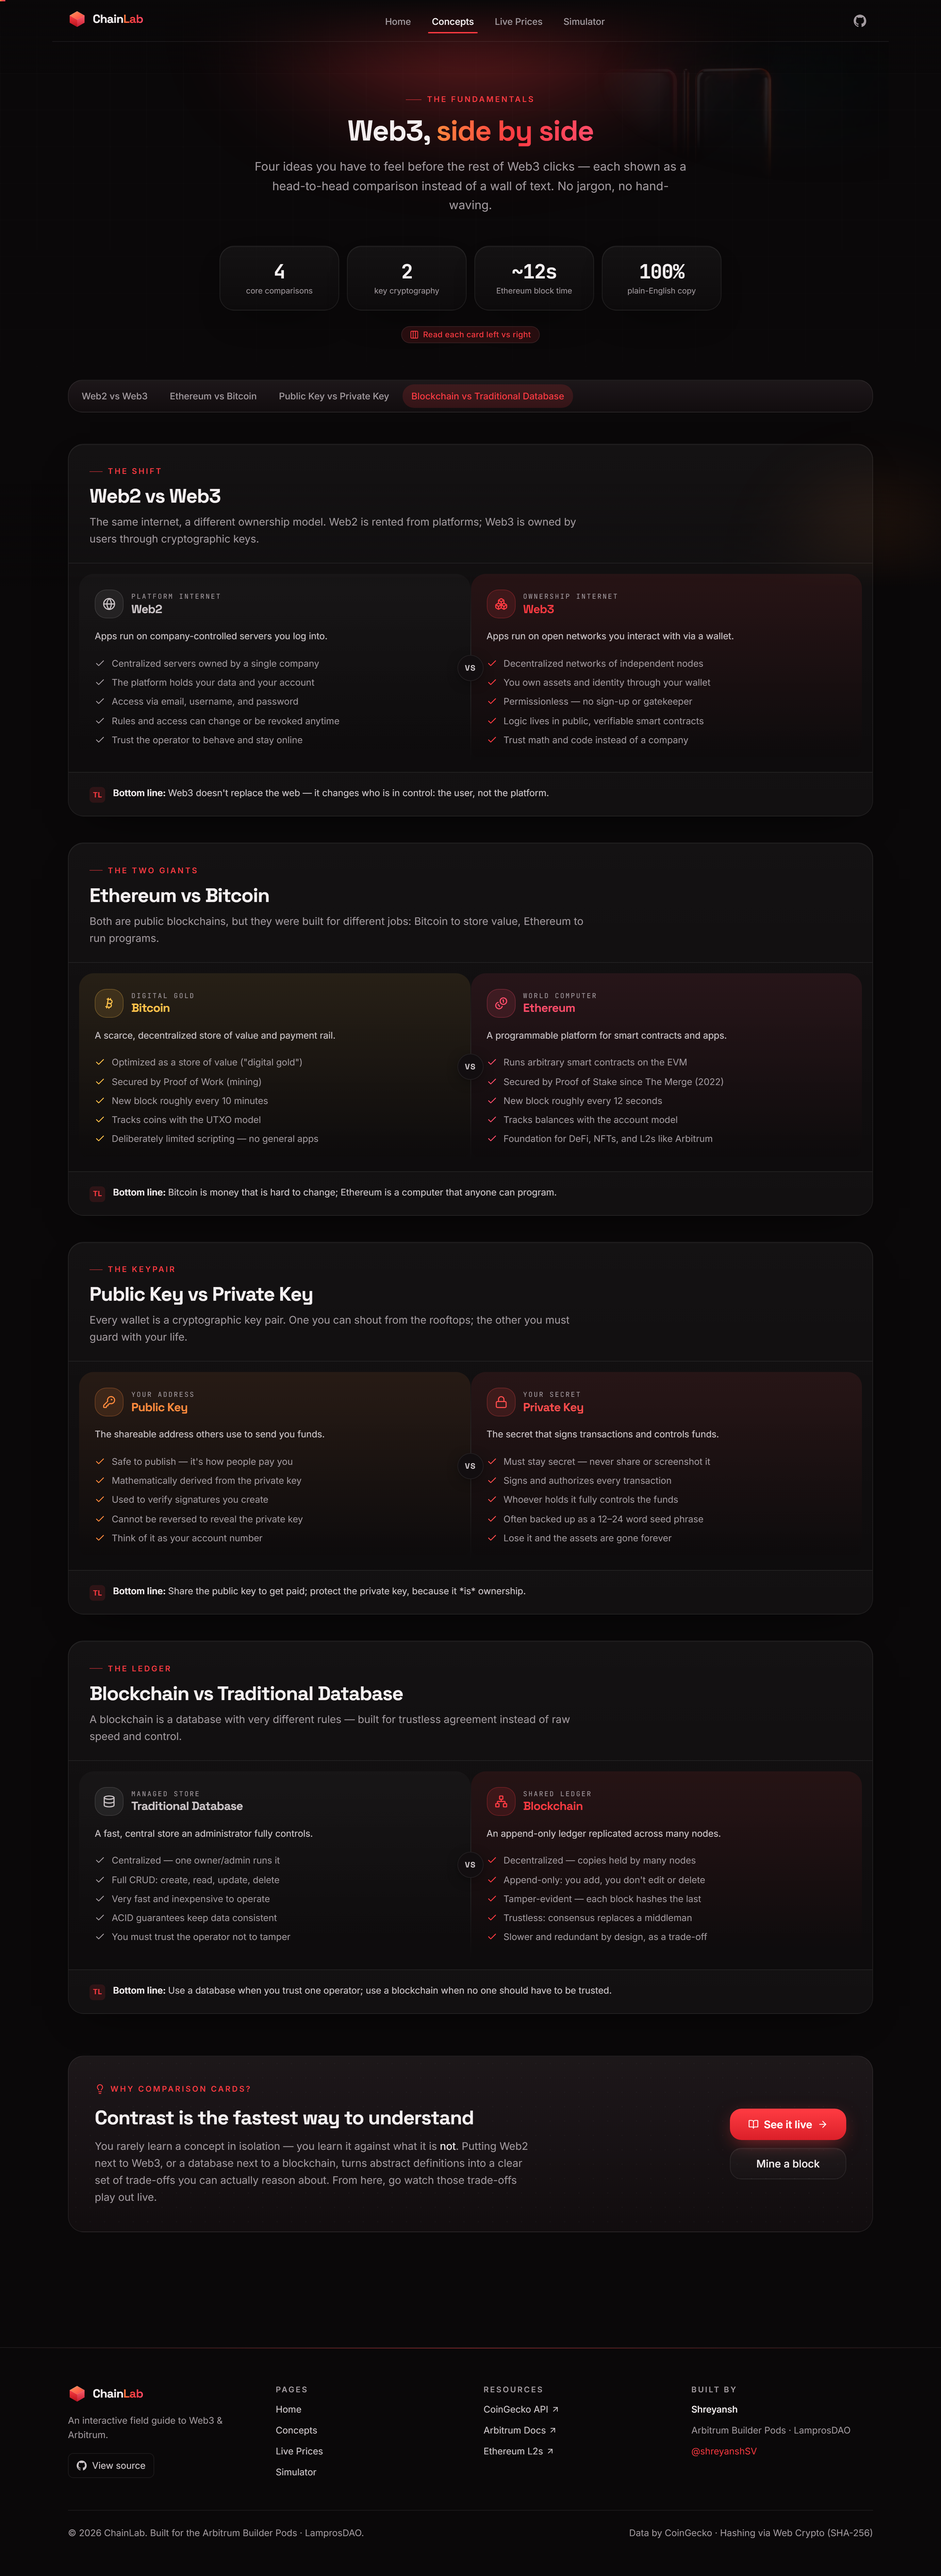
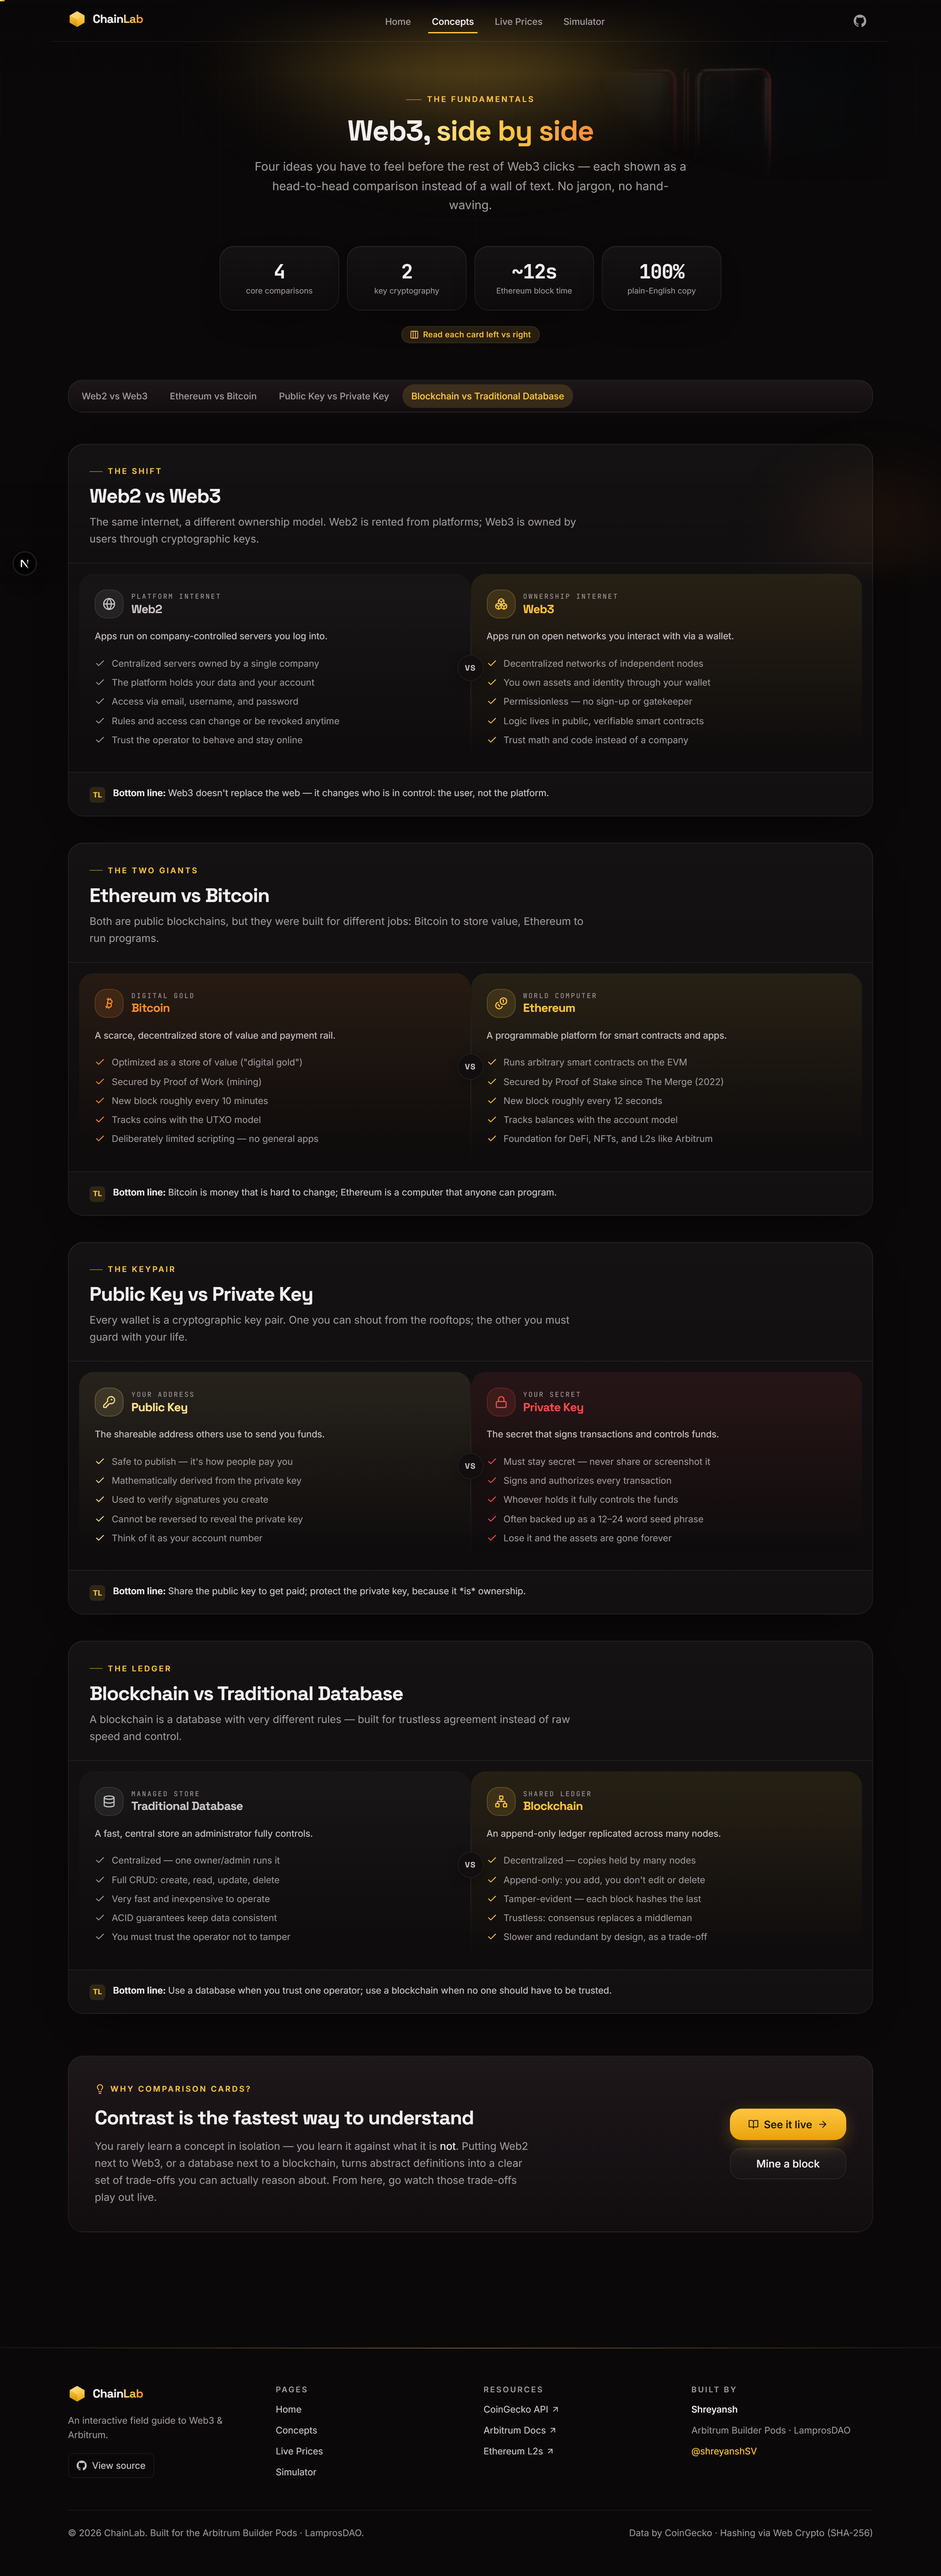
Switch theme from red to gold/yellow (design tokens + semantic color adjustments)

diff --git a/app/globals.css b/app/globals.css
@@ -2,12 +2,12 @@
 
 /* ------------------------------------------------------------------ *
  * ChainLab — Design System
- * Dark-mode-first, scarlet/crimson accented Web3 aesthetic.
+ * Dark-mode-first, gold/amber accented Web3 aesthetic.
  * Token layer (:root) -> Tailwind theme map (@theme inline) -> utilities
  * ------------------------------------------------------------------ */
 
 :root {
-  /* Surfaces — deep, slightly warm neutral so red reads as intentional, not alarm */
+  /* Surfaces — deep, slightly warm neutral so gold reads as intentional */
   --background: #0a0809;
   --background-elevated: #120e10;
   --surface: #181315;
@@ -18,28 +18,29 @@
   --muted: #a39ba0;
   --muted-strong: #cdc6c9;
 
-  /* Brand — crimson/scarlet family with a warm ember accent. The accent-cyan /
-   * accent-violet names are kept as design-token aliases (referenced widely) but
-   * now resolve to ember-orange and rose so the whole palette stays in the red
-   * family — a deliberate ember→scarlet→rose sweep, not a rainbow. */
-  --primary: #ff3b42;          /* scarlet */
-  --primary-strong: #db1f29;
-  --primary-foreground: #ffffff;
-  --accent-cyan: #ff8a3d;      /* ember orange (alias) */
-  --accent-violet: #ff4d6a;    /* rose red (alias) */
+  /* Brand — gold/amber family. The accent-cyan / accent-violet names are kept as
+   * design-token aliases (referenced widely) but now resolve to pale-gold and
+   * orange, so the whole palette stays warm — a pale-gold→gold→orange sweep, not
+   * a rainbow. Buttons use DARK text on gold for AA contrast. */
+  --primary: #ffc53d;          /* gold */
+  --primary-strong: #eaa200;
+  --primary-foreground: #1a1503; /* near-black, for dark-on-gold buttons */
+  --accent-cyan: #ffe08a;      /* pale gold (alias) */
+  --accent-violet: #ff8a3d;    /* orange (alias) */
 
-  /* Semantic — green stays for "up/valid", red for "down/invalid/error" */
+  /* Semantic — green for "up/valid", red for "down/invalid/error", and a clearly
+   * separate ORANGE warning so it doesn't read as the gold brand. */
   --success: #34d27f;
   --danger: #ff4d4d;
-  --warning: #ffc24b;          /* gold — used for Bitcoin + "orphaned" */
+  --warning: #ff8c2b;          /* orange — Bitcoin + "orphaned" */
 
   /* Lines */
   --border: rgba(255, 255, 255, 0.08);
   --border-strong: rgba(255, 255, 255, 0.15);
-  --ring: #ff3b42;
+  --ring: #ffc53d;
 
   /* Effects */
-  --glow-primary: 0 0 0 1px rgba(255, 59, 66, 0.22), 0 10px 44px -10px rgba(255, 59, 66, 0.5);
+  --glow-primary: 0 0 0 1px rgba(255, 197, 61, 0.22), 0 10px 44px -10px rgba(255, 197, 61, 0.5);
   --shadow-card: 0 1px 0 0 rgba(255, 255, 255, 0.04) inset, 0 22px 60px -34px rgba(0, 0, 0, 0.95);
 }
 
@@ -101,7 +102,7 @@ body {
 }
 
 ::selection {
-  background: rgba(255, 59, 66, 0.32);
+  background: rgba(255, 197, 61, 0.32);
   color: #fff;
 }
 
@@ -165,7 +166,7 @@ body {
 
 /* Gradient text */
 .text-gradient {
-  background: linear-gradient(100deg, #ffffff 0%, #ffd0c0 40%, var(--primary) 80%);
+  background: linear-gradient(100deg, #ffffff 0%, #ffe6a8 40%, var(--primary) 80%);
   -webkit-background-clip: text;
   background-clip: text;
   color: transparent;
@@ -207,7 +208,7 @@ body {
   background: linear-gradient(
     90deg,
     transparent,
-    rgba(255, 59, 66, 0.5),
+    rgba(255, 197, 61, 0.5),
     transparent
   );
 }
@@ -266,9 +267,9 @@ body {
 }
 
 @keyframes pulse-ring {
-  0% { box-shadow: 0 0 0 0 rgba(255, 59, 66, 0.5); }
-  70% { box-shadow: 0 0 0 12px rgba(255, 59, 66, 0); }
-  100% { box-shadow: 0 0 0 0 rgba(255, 59, 66, 0); }
+  0% { box-shadow: 0 0 0 0 rgba(255, 197, 61, 0.5); }
+  70% { box-shadow: 0 0 0 12px rgba(255, 197, 61, 0); }
+  100% { box-shadow: 0 0 0 0 rgba(255, 197, 61, 0); }
 }
 
 @keyframes dash-flow {

diff --git a/components/layout/Logo.tsx b/components/layout/Logo.tsx
@@ -16,16 +16,16 @@ export function LogoMark({ className }: { className?: string }) {
     >
       <defs>
         <linearGradient id="cube-top" x1="0" y1="0" x2="1" y2="1">
-          <stop offset="0%" stopColor="#ff9a5a" />
-          <stop offset="100%" stopColor="#ff3b42" />
+          <stop offset="0%" stopColor="#ffe08a" />
+          <stop offset="100%" stopColor="#ffc53d" />
         </linearGradient>
         <linearGradient id="cube-left" x1="0" y1="0" x2="0" y2="1">
-          <stop offset="0%" stopColor="#ff3b42" />
-          <stop offset="100%" stopColor="#b3121c" />
+          <stop offset="0%" stopColor="#ffc53d" />
+          <stop offset="100%" stopColor="#d18f00" />
         </linearGradient>
         <linearGradient id="cube-right" x1="0" y1="0" x2="0" y2="1">
-          <stop offset="0%" stopColor="#ff5d6a" />
-          <stop offset="100%" stopColor="#c41d33" />
+          <stop offset="0%" stopColor="#ffd45c" />
+          <stop offset="100%" stopColor="#eaa200" />
         </linearGradient>
       </defs>
       <polygon points="16,2.5 29,10 16,17.5 3,10" fill="url(#cube-top)" />

diff --git a/components/home/ParticleNetwork.tsx b/components/home/ParticleNetwork.tsx
@@ -73,7 +73,7 @@ export function ParticleNetwork({ className }: { className?: string }) {
           const dist = Math.hypot(dx, dy);
           if (dist < LINK_DIST) {
             const alpha = (1 - dist / LINK_DIST) * 0.22;
-            c.strokeStyle = `rgba(255,59,66,${alpha})`;
+            c.strokeStyle = `rgba(255,197,61,${alpha})`;
             c.lineWidth = 1;
             c.beginPath();
             c.moveTo(a.x, a.y);
@@ -103,7 +103,7 @@ export function ParticleNetwork({ className }: { className?: string }) {
       for (const n of nodes) {
         c.beginPath();
         c.arc(n.x, n.y, 1.6, 0, Math.PI * 2);
-        c.fillStyle = "rgba(255,99,104,0.75)";
+        c.fillStyle = "rgba(255,205,80,0.75)";
         c.fill();
       }
     }

diff --git a/components/simulator/DifficultyControl.tsx b/components/simulator/DifficultyControl.tsx
@@ -59,7 +59,7 @@ export function DifficultyControl({
                 "h-11 rounded-xl border font-mono tnum text-sm font-semibold transition-all",
                 "disabled:cursor-not-allowed disabled:opacity-40",
                 active
-                  ? "border-primary/60 bg-primary/15 text-primary shadow-[0_0_0_1px_rgba(255,59,66,0.25)]"
+                  ? "border-primary/60 bg-primary/15 text-primary shadow-[0_0_0_1px_rgba(255,197,61,0.25)]"
                   : "border-border bg-background/40 text-muted-strong hover:border-border-strong hover:text-foreground",
               )}
             >

diff --git a/components/home/ChainVisual.tsx b/components/home/ChainVisual.tsx
@@ -81,7 +81,7 @@ function Connector({ delay, reduce }: { delay: number; reduce: boolean }) {
       <div className="h-6 w-px bg-gradient-to-b from-primary/60 to-accent-violet/30 md:h-px md:w-full md:bg-gradient-to-r" />
       {!reduce && (
         <motion.span
-          className="absolute h-2 w-2 rounded-full bg-primary shadow-[0_0_10px_2px_rgba(255,59,66,0.85)]"
+          className="absolute h-2 w-2 rounded-full bg-primary shadow-[0_0_10px_2px_rgba(255,197,61,0.85)]"
           initial={{ opacity: 0 }}
           animate={{
             opacity: [0, 1, 1, 0],

diff --git a/components/ui/Button.tsx b/components/ui/Button.tsx
@@ -14,8 +14,8 @@ const base =
 const variants: Record<Variant, string> = {
   primary:
     "bg-gradient-to-b from-primary to-primary-strong text-primary-foreground font-semibold " +
-    "shadow-[0_8px_30px_-8px_rgba(255,59,66,0.6)] " +
-    "hover:shadow-[0_12px_40px_-6px_rgba(255,59,66,0.78)] hover:brightness-110",
+    "shadow-[0_8px_30px_-8px_rgba(255,197,61,0.55)] " +
+    "hover:shadow-[0_12px_40px_-6px_rgba(255,197,61,0.7)] hover:brightness-110",
   secondary:
     "glass text-foreground hover:border-border-strong hover:bg-white/[0.06]",
   outline:

diff --git a/components/layout/BackgroundFX.tsx b/components/layout/BackgroundFX.tsx
@@ -22,7 +22,7 @@ export function BackgroundFX() {
         className="aurora animate-drift left-1/2 top-[-22%] h-[55vh] w-[80vw] max-w-[1100px] -translate-x-1/2 opacity-40"
         style={{
           background:
-            "radial-gradient(closest-side, rgba(255,59,66,0.9), transparent 72%)",
+            "radial-gradient(closest-side, rgba(255,197,61,0.95), transparent 72%)",
         }}
       />
       {/* soft ember support glow, low and off to the side */}

diff --git a/components/concepts/data.ts b/components/concepts/data.ts
@@ -113,7 +113,7 @@ export const concepts: Concept[] = [
       label: "Ethereum",
       kicker: "World computer",
       icon: Coins,
-      accent: "violet",
+      accent: "primary",
       tagline: "A programmable platform for smart contracts and apps.",
       points: [
         "Runs arbitrary smart contracts on the EVM",

diff --git a/components/ui/Sparkline.tsx b/components/ui/Sparkline.tsx
@@ -7,7 +7,7 @@ import { cn } from "@/lib/utils";
  */
 export function Sparkline({
   data,
-  color = "#ff3b42",
+  color = "#ffc53d",
   className,
   strokeWidth = 1.8,
   fill = true,
